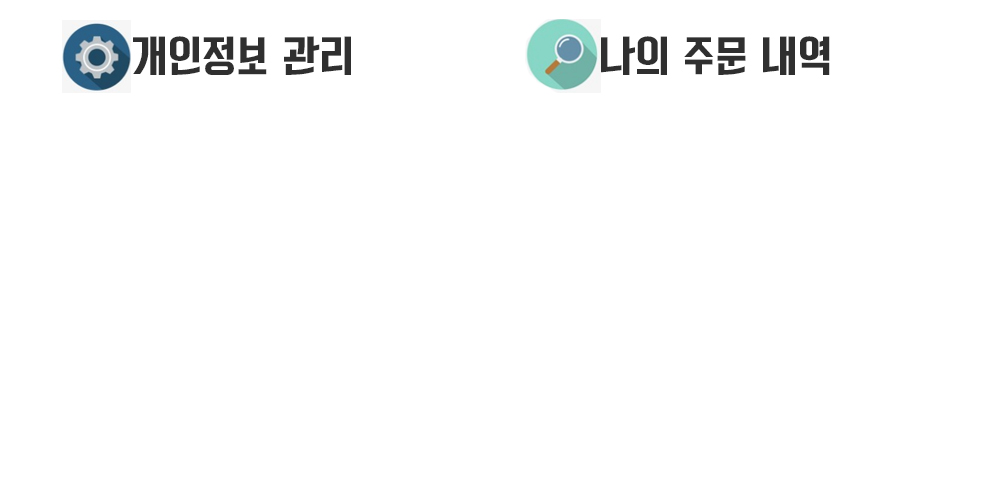
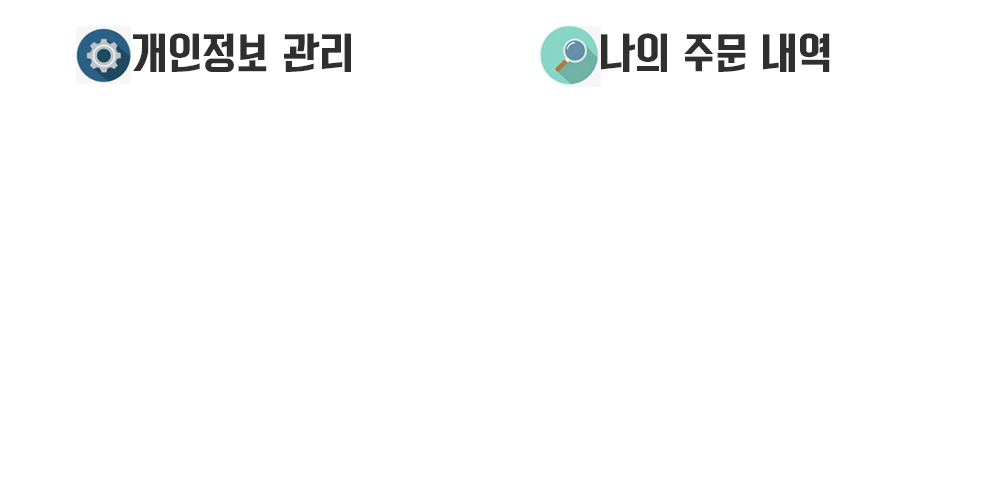
good

Changed region(s): [[0.061, 0.0312, 0.3662, 0.1875], [0.5188, 0.0312, 0.8545, 0.1875]]

diff --git a/khChicken_client/src/client/view/MyInfoView.java b/khChicken_client/src/client/view/MyInfoView.java
@@ -208,14 +208,14 @@ public class MyInfoView extends JFrame implements ActionListener {
 		getContentPane().add(JLabel_Phone);
 
 		JLabel_Logo = new JLabel(new ImageIcon(PATH + "charactor.gif"));	//gif넣기
-		JLabel_Logo.setBounds(441, 320, 282, 106);
+		JLabel_Logo.setBounds(480, 345, 282, 106);
 		JLabel_Logo.setBackground(Color.black);
 		JLabel_Logo.setOpaque(true);
 		getContentPane().add(JLabel_Logo);
 
 		JBut_back = new JButton(new ImageIcon(PATH + "upReturnBtn.jpg"));
 		JBut_back.addActionListener(this);
-		JBut_back.setBounds(816, 385, 139, 46);
+		JBut_back.setBounds(816, 385, 114, 50);
 		getContentPane().add(JBut_back);
 
 		JLabel label = new JLabel("비밀번호");
@@ -291,7 +291,7 @@ public class MyInfoView extends JFrame implements ActionListener {
 
 		// add(table);
 		JScrollPane Scroll_model = new JScrollPane(table);
-		Scroll_model.setBounds(435, 49, 520, 262);
+		Scroll_model.setBounds(435, 80, 520, 262);
 		getContentPane().add(Scroll_model);
 
 	/*	JLabel lblNewLabel = new JLabel("<나의 주문 내역>");

diff --git a/khChicken_client/src/client/view/manager/CustomerManageView.java b/khChicken_client/src/client/view/manager/CustomerManageView.java
@@ -59,7 +59,7 @@ public class CustomerManageView extends JFrame implements ActionListener {
 		
 		backBtn = new JButton(new ImageIcon(PATH + "cusBackMenuBtn.jpg"));
 		backBtn.setName("backToMenu");	//돌아가기 backToMenu , 뒤로 return
-		backBtn.setBounds(550, 370, 90, 40);
+		backBtn.setBounds(520, 390, 90, 40);
 		backBtn.addActionListener(this);
 		add(backBtn);
 
